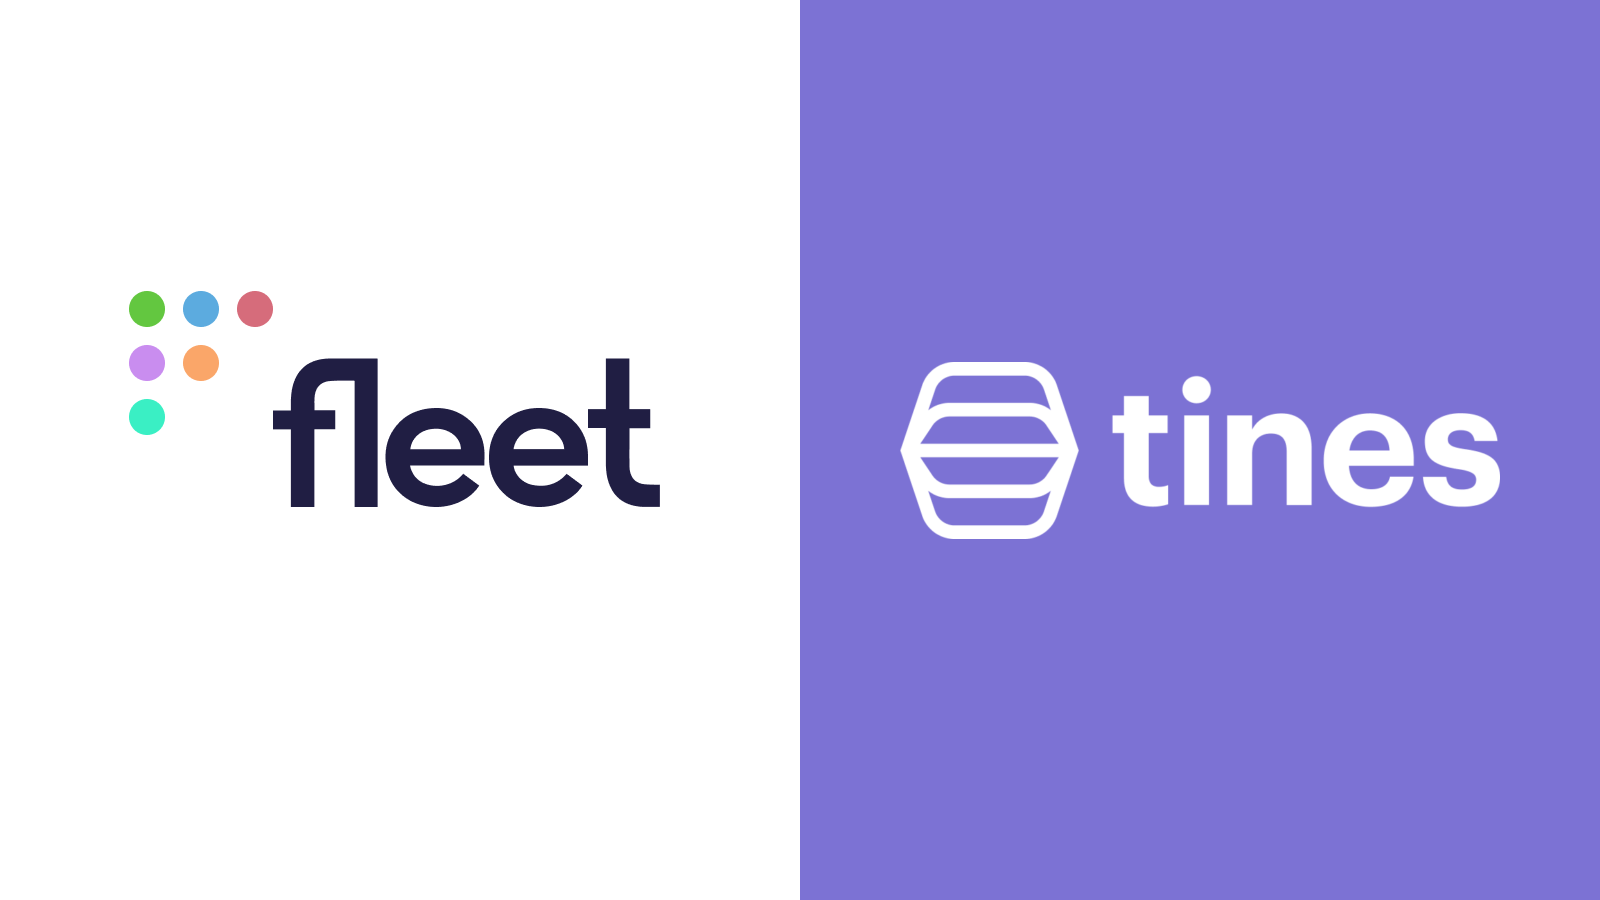
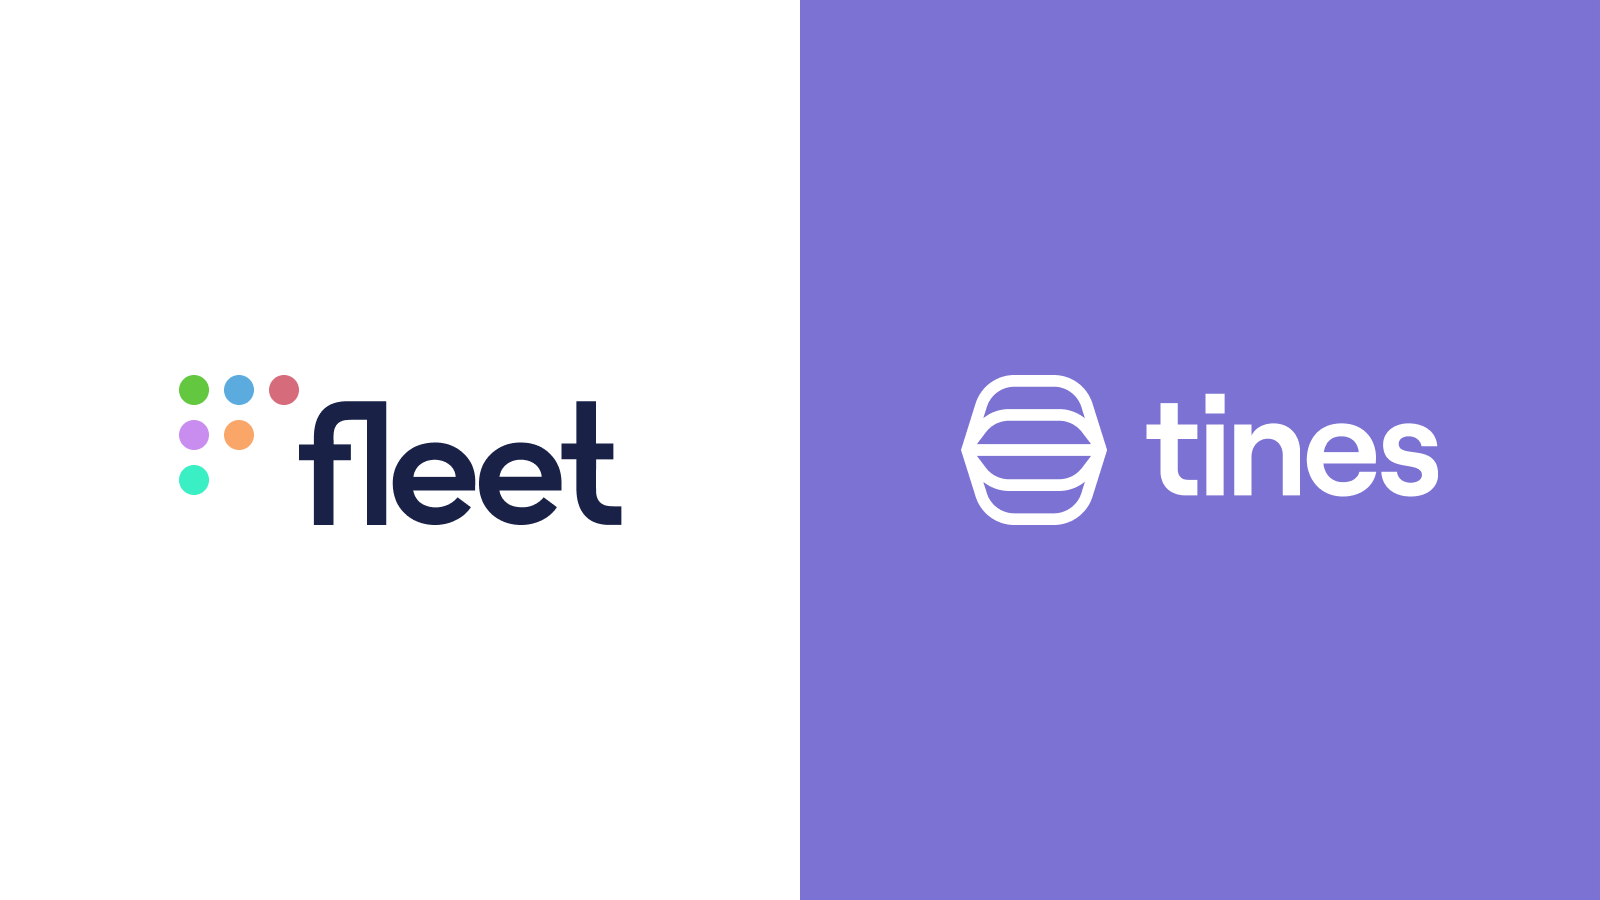
Blog image update (#10437)
I updates the images for
[https://fleetdm.com/guides/using-fleet-and-tines-together](https://fleetdm.com/guides/using-fleet-and-tines-together)
and added Fleet Premium CTA.

Changed region(s): [[0.0625, 0.3111, 0.4375, 0.5911], [0.5625, 0.4044, 0.9375, 0.6222]]

diff --git a/articles/using-fleet-and-tines-together.md b/articles/using-fleet-and-tines-together.md
@@ -8,11 +8,11 @@ Fleet collects a large amount of data, and in many cases, it is not possible (or
 
 First, by leveraging the “Software” tab, you can add a filter that will display only the software that has detected vulnerabilities.
 
-![](../website/assets/images/articles/using-fleet-and-tines-together-filter-1600x898@2x.png)
+![](../website/assets/images/articles/using-fleet-and-tines-together-filter-800x450@2x.gif)
 
-From the “Hosts” column, you can see the count of hosts in the respective team that have the vulnerable software installed. If you click “View all hosts,” you can get the list of hosts displayed. Additionally, in this view, you can export the list of hosts to take further action toward remediation or compliance reporting. 
+From the “Hosts” column, you can see the count of hosts in the respective team that have the vulnerable software installed. If you click “View all hosts,” you can get the list of hosts displayed. Additionally, in this view, you can export the list of hosts to take further action toward remediation or compliance reporting.
 
-![](../website/assets/images/articles/using-fleet-and-tines-together-hosts-1600x434@2x.png)
+![](../website/assets/images/articles/using-fleet-and-tines-together-hosts-800x450@2x.gif)
 
 But what if I wanted that list of hosts (in the above example, there is only one host that has the vulnerable software “UTM.app” installed) as well as the CVSS score, probability of exploit, and CVE numbers associated with the list of hosts? Or, just show me a list of hosts with all vulnerable software and the related CVE?
 
@@ -70,9 +70,11 @@ In the Tines Editor, the formatting would look something like this:
 
 The final email with the above definition looks like this:
 
-![](../website/assets/images/articles/using-fleet-and-tines-together-final-email-780x914@2x.png)
+![](../website/assets/images/articles/using-fleet-and-tines-together-final-email-800x615@2x.png)
 
 The Fleet API is very flexible, but with the addition of Tines, the options for data transformation are endless. In the above example, we easily connected to the Fleet API and transformed the data response with a single Tines Transform function, and allowed the end user to receive a customized report of vulnerable software on an individual host.
+
+<call-to-action preset="premium-upgrade"></call-to-action>
 
 <meta name="category" value="guides">
 <meta name="authorFullName" value="Dave Herder">
